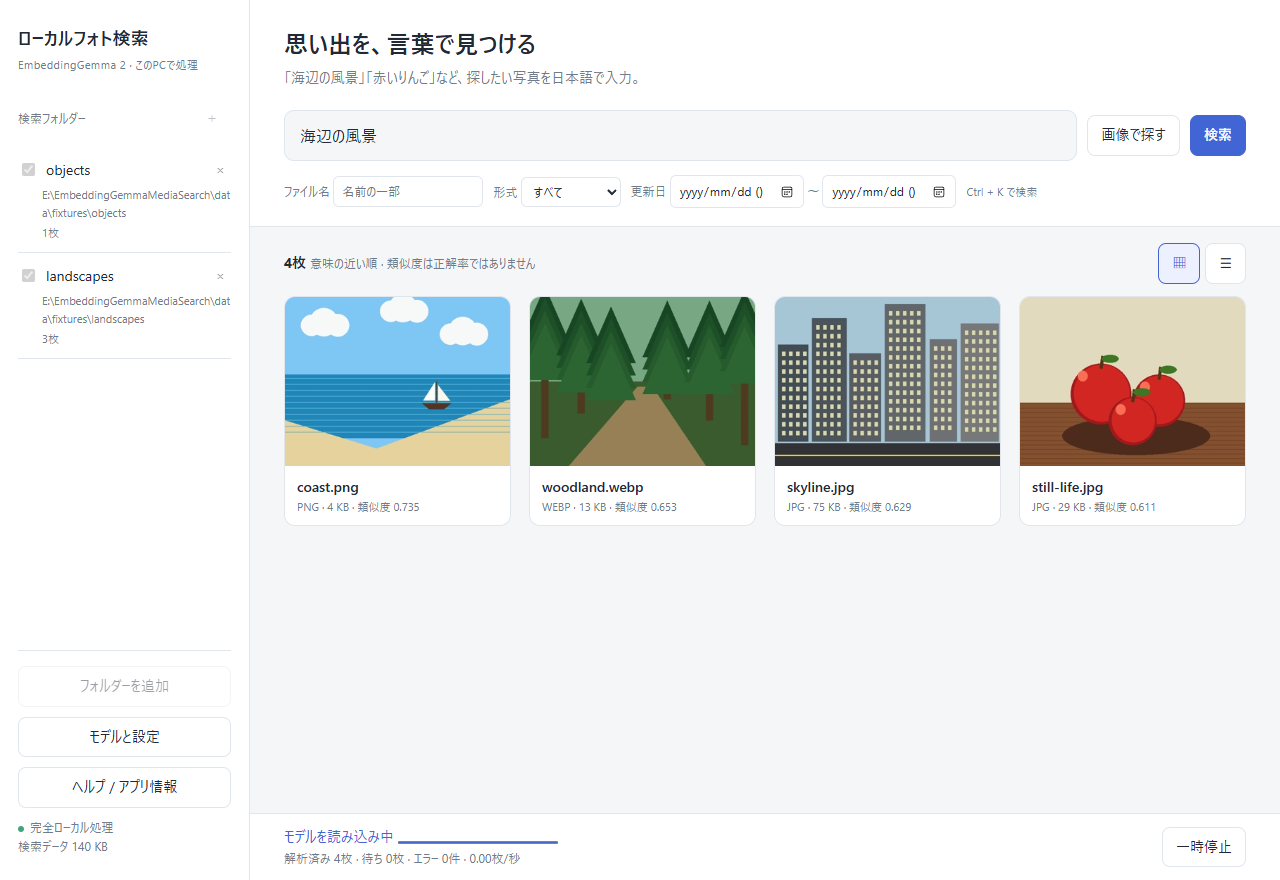
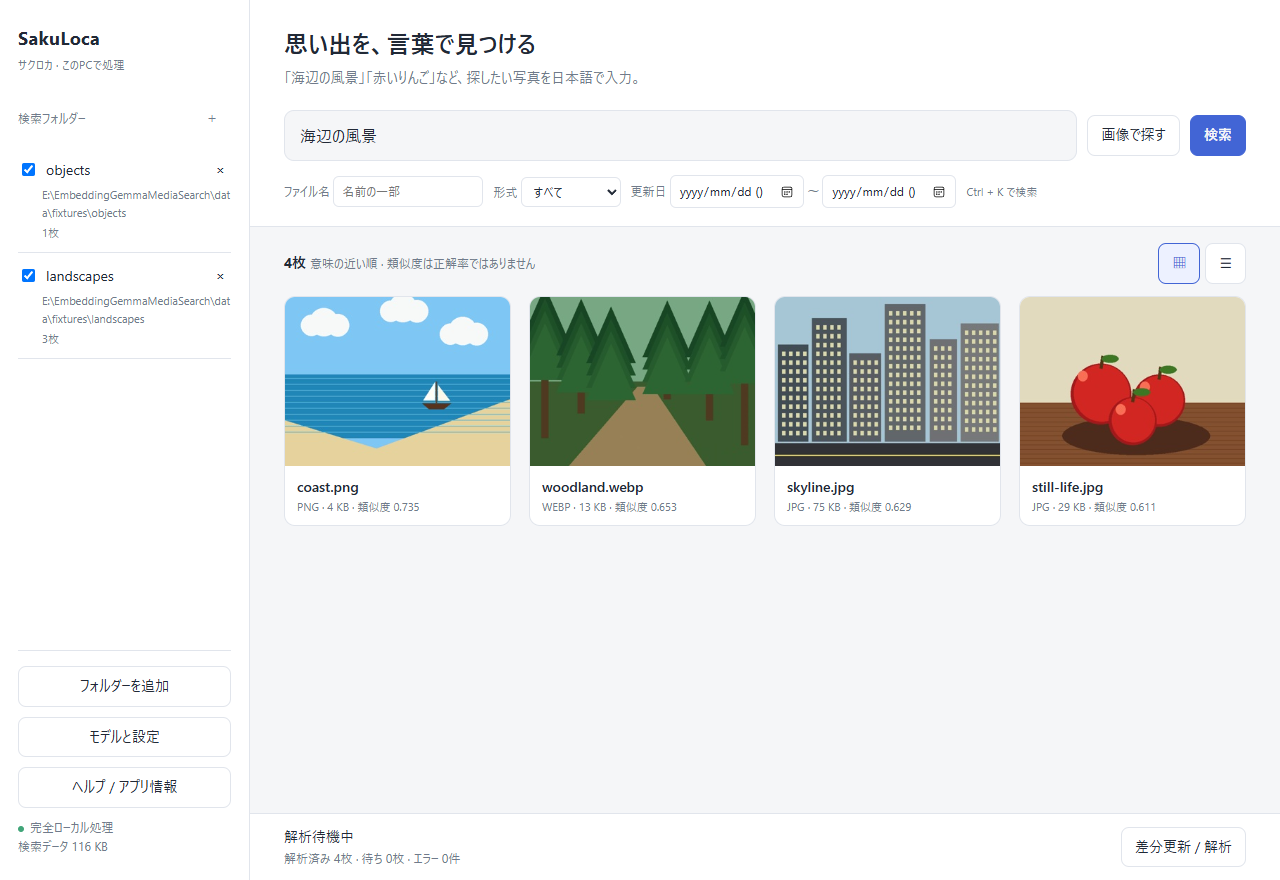
SakuLoca v1.0.1へ改名し配布物と基本検証を整備

diff --git a/src/release-controls.ts b/src/release-controls.ts
@@ -42,7 +42,7 @@ export class ReleaseControls extends LitElement {
   private storage(){const s=this.status;return html`<div class="setting"><label>保存場所と容量</label><p class="path">${s?.data_path}</p><dl class="capacity"><dt>モデル本体</dt><dd>${bytes(s?.model_bytes||0)}</dd><dt>SQLite（検索ベクトル含む）</dt><dd>${bytes(s?.database_bytes||0)}</dd><dt>サムネイル（上限512 MiB）</dt><dd>${bytes(s?.cache_bytes||0)}</dd><dt>AIキャッシュ（上限1 GiB）</dt><dd>${bytes(s?.runtime_cache_bytes||0)}</dd><dt>保存先の空き容量</dt><dd>${bytes(s?.free_bytes||0)}</dd></dl><button ?disabled=${s?.running||this.working} @click=${this.changeStorage}>保存先を変更（元を残してコピー）</button><p class="note">検証後に切り替えて終了します。次回起動で新しい保存先を使います。元データは残ります。</p><button ?disabled=${s?.running||this.working} @click=${()=>this.run(async()=>{if(confirm('AIキャッシュだけを削除します。次のモデル読み込みに時間がかかります。検索データとモデルは保持します。続行しますか？'))await rpc('clear_runtime_cache')})}>AIキャッシュを削除</button><p class="note">写真と検索ベクトルは削除しません。次のAI起動時に再生成します。</p>${s?.runtime_cache_warning?html`<p>${s.runtime_cache_warning}</p>`:nothing}</div>`}
   private environmentControls(){const e=this.environment;return html`<div class="setting"><label>このPCの動作環境</label><p>${e?.os} / ${e?.architecture}</p><p>Windows x64条件：${e?.os_supported?'確認':'未確認'} · 保存先空き ${bytes(e?.free_bytes||0)}</p><p>Worker ${e?.python_bundled?'Python実行環境同梱':'開発環境'} · LiteRT-LM ${e?.runtime['litert-lm-api']||'不足'} / Pillow ${e?.runtime.Pillow||'不足'}</p><p class="note">${e?.gpu_note}<br>${e?.cpu_note}<br>WebView2でこの画面を表示しています。保存先には2 GiB以上の空きを推奨します。</p><button @click=${this.loadEnvironment}>動作環境を再確認</button></div>`}
   private errorDialog(){return html`<dialog id="errors"><div class="dialog-header"><h2>解析エラー ${this.errors.total}件</h2><button @click=${()=>this.close('#errors')}>閉じる</button></div>${this.errors.items.map(e=>html`<div class="setting"><p class="path">${e.path}</p><p>${e.error}</p></div>`)}${!this.errors.total?html`<p>解析エラーはありません。</p>`:nothing}<div class="dialog-actions"><button ?disabled=${!this.errorOffset} @click=${()=>this.showErrors(this.errorOffset-50)}>前へ</button><button ?disabled=${this.errorOffset+50>=this.errors.total} @click=${()=>this.showErrors(this.errorOffset+50)}>次へ</button><button ?disabled=${this.status?.running||!this.errors.total} @click=${()=>this.run(async()=>{await rpc('retry_errors');this.close('#errors')})}>失敗した写真を再試行</button></div></dialog>`}
-  private wizard(){const steps=['ようこそ','PCの動作環境','AIモデルの準備','保存先の確認','写真フォルダー','背景動作と負荷','初回解析','セットアップ完了'];return html`<dialog id="wizard"><div class="dialog-header"><h2>初回セットアップ</h2><button @click=${()=>this.close('#wizard')}>後で続ける</button></div><p class="note">${this.step+1} / 8 · ${steps[this.step]}（途中で閉じても再開できます）</p><progress max="7" value=${this.step}></progress>${this.step===0?html`<h3>写真を、言葉や画像で検索</h3><p>登録した写真だけをこのPCで解析します。外部へアップロードせず、元の写真を書き換えません。</p><p>保存容量を確認しながら準備しましょう。</p>`:this.step===1?this.environmentControls():this.step===2?this.modelControls():this.step===3?this.storage():this.step===4?html`<p>登録したフォルダーとサブフォルダーだけが対象です。</p><button @click=${()=>this.run(async()=>{const path=await choose('folder');if(path)await rpc('add_folder',{path})})}>写真フォルダーを追加</button><p>登録済みフォルダーは検索画面の左側でも確認できます。</p>`:this.step===5?this.background():this.step===6?html`<p>モデルの実行診断後、初回解析を開始できます。解析完了を待たずに検索画面へ進めます。</p><button ?disabled=${this.working||this.status?.running} @click=${this.diagnose}>${this.working?'診断中…':'AI実行を診断'}</button><p>${this.diagnostic}</p><button class="primary" ?disabled=${!this.diagnosticOK||this.status?.running} @click=${()=>this.run(()=>rpc('start'))}>初回解析を開始</button>`:html`<h3>準備ができました</h3><p>画面下部で解析状況を確認できます。ヘルプから使い方を確認できます。</p>`}${this.error?html`<p role="alert">${this.error}</p>`:nothing}<div class="dialog-actions"><button ?disabled=${this.step===0} @click=${()=>this.next(-1)}>戻る</button>${this.step===7?html`<button class="primary" @click=${()=>this.run(async()=>{await rpc('preferences',{setup_complete:true,setup_step:7});this.close('#wizard')})}>検索画面へ</button>`:html`<button class="primary" @click=${()=>this.next(1)}>次へ</button>`}</div></dialog>`}
-  private help(){return html`<dialog id="help"><div class="dialog-header"><h2>使い方 / アプリ情報</h2><button @click=${()=>this.close('#help')}>閉じる</button></div><p><strong>Local Photo Search 1.0.0</strong><br>無料のローカルAI写真検索アプリ。ソースコード非公開で配布します。</p><h3>登録・解析・検索</h3><p>写真フォルダーを追加し「差分更新 / 解析」で準備します。JPEG/PNG/WebPとサブフォルダーが対象。日本語で「海辺の風景」などを検索するか「画像で探す」で参照画像を選択。AIの類似度は正解率ではありません。人物特定や文字の完全一致、撮影場所の断定は保証しません。</p><h3>操作</h3><p>ファイル名・形式・更新日で絞り込み、グリッド/リストを切り替えます。写真をクリックしてプレビュー、拡大縮小、元ファイル起動、Explorer表示。Ctrl+Kで検索、F1でヘルプ、Escで閉じます。意味検索は対象全体を近い順に並べ、1ページ60枚。1,001位以降も表示できます。</p><h3>停止・再開・背景動作</h3><p>一時停止は現在の1枚を保存後に停止。差分更新で未完了だけを再開します。背景実行は既定OFFで×は完全終了。設定で許可すると×はトレイ格納して解析継続。トレイから再表示・停止・再開・完全終了。低負荷とアイドル限定を選べます。自動起動は明示許可したときだけです。</p><h3>モデル・容量・復旧</h3><p>設定で既存.litertlmを選ぶか、公式条件と容量を確認後に取得します。オフラインでは既存モデルを使用。GPU失敗はドライバー確認とCPU診断、Worker停止は設定から再起動。ドライブを再接続し差分更新。壊れた写真や権限問題はエラー一覧で確認し再試行。空き容量不足は容量確保後に再開します。</p><p>モデル/SQLite/サムネイル/AIキャッシュは別です。AIキャッシュ削除は次回起動を遅くしますがモデルと検索ベクトルは保持します。保存先変更はコピーを検証し元を残して、次回起動から反映します。</p><h3>更新・アンインストール</h3><p>トレイから完全終了し、新しいインストーラーを同じ場所へ導入します。Windows設定でアンインストールしても写真・モデル・検索データは残り、再インストールで再利用できます。設定の「アプリの更新」で署名付き更新を確認し、内容を見て更新できます。手動更新も利用できます。Windowsコード署名はありません。</p><h3>プライバシー・動作環境・ライセンス</h3><p>写真・検索文はローカルで処理し、広告/テレメトリーなし。通信は確認したモデル取得、GitHubでの更新確認・取得、WebView2/Visual C++ Runtime導入、利用者が開いた公式ページです。ログはローカルのみですがパスを含む場合があるため共有前に確認してください。</p><p>Windows 11 x64 / RTX 2070を実測。他GPU/Windows10/ARMを検証済みとは表示しません。LiteRT-LMとEmbeddingGemma 2はApache-2.0。TauriはMIT/Apache-2.0、LitはBSD-3-Clause、PythonはPSF、PillowはMIT-CMU/HPNDと組込依存の個別条件。詳細はインストール先のTHIRD_PARTY_NOTICES.md / licenses / USER_GUIDE.md。</p><button @click=${()=>{this.close('#help');void this.openSetup()}}>セットアップを開く</button></dialog>`}
+  private wizard(){const steps=['SakuLocaへようこそ','PCの動作環境','AIモデルの準備','保存先の確認','写真フォルダー','背景動作と負荷','初回解析','セットアップ完了'];return html`<dialog id="wizard"><div class="dialog-header"><h2>初回セットアップ</h2><button @click=${()=>this.close('#wizard')}>後で続ける</button></div><p class="note">${this.step+1} / 8 · ${steps[this.step]}（途中で閉じても再開できます）</p><progress max="7" value=${this.step}></progress>${this.step===0?html`<h3>写真を、言葉や画像で検索</h3><p>登録した写真だけをこのPCで解析します。外部へアップロードせず、元の写真を書き換えません。</p><p>保存容量を確認しながら準備しましょう。</p>`:this.step===1?this.environmentControls():this.step===2?this.modelControls():this.step===3?this.storage():this.step===4?html`<p>登録したフォルダーとサブフォルダーだけが対象です。</p><button @click=${()=>this.run(async()=>{const path=await choose('folder');if(path)await rpc('add_folder',{path})})}>写真フォルダーを追加</button><p>登録済みフォルダーは検索画面の左側でも確認できます。</p>`:this.step===5?this.background():this.step===6?html`<p>モデルの実行診断後、初回解析を開始できます。解析完了を待たずに検索画面へ進めます。</p><button ?disabled=${this.working||this.status?.running} @click=${this.diagnose}>${this.working?'診断中…':'AI実行を診断'}</button><p>${this.diagnostic}</p><button class="primary" ?disabled=${!this.diagnosticOK||this.status?.running} @click=${()=>this.run(()=>rpc('start'))}>初回解析を開始</button>`:html`<h3>準備ができました</h3><p>画面下部で解析状況を確認できます。ヘルプから使い方を確認できます。</p>`}${this.error?html`<p role="alert">${this.error}</p>`:nothing}<div class="dialog-actions"><button ?disabled=${this.step===0} @click=${()=>this.next(-1)}>戻る</button>${this.step===7?html`<button class="primary" @click=${()=>this.run(async()=>{await rpc('preferences',{setup_complete:true,setup_step:7});this.close('#wizard')})}>検索画面へ</button>`:html`<button class="primary" @click=${()=>this.next(1)}>次へ</button>`}</div></dialog>`}
+  private help(){return html`<dialog id="help"><div class="dialog-header"><h2>使い方 / アプリ情報</h2><button @click=${()=>this.close('#help')}>閉じる</button></div><p><strong>SakuLoca 1.0.1（サクロカ）</strong><br>無料・オープンソースのローカルAI写真検索アプリ。開発元：VIDEdegi（ビデデジ）。名前の由来：サクッと、ローカル、サーチ。</p><h3>登録・解析・検索</h3><p>写真フォルダーを追加し「差分更新 / 解析」で準備します。JPEG/PNG/WebPとサブフォルダーが対象。日本語で「海辺の風景」などを検索するか「画像で探す」で参照画像を選択。AIの類似度は正解率ではありません。人物特定や文字の完全一致、撮影場所の断定は保証しません。</p><h3>操作</h3><p>ファイル名・形式・更新日で絞り込み、グリッド/リストを切り替えます。写真をクリックしてプレビュー、拡大縮小、元ファイル起動、Explorer表示。Ctrl+Kで検索、F1でヘルプ、Escで閉じます。意味検索は対象全体を近い順に並べ、1ページ60枚。1,001位以降も表示できます。</p><h3>停止・再開・背景動作</h3><p>一時停止は現在の1枚を保存後に停止。差分更新で未完了だけを再開します。背景実行は既定OFFで×は完全終了。設定で許可すると×はトレイ格納して解析継続。トレイから再表示・停止・再開・完全終了。低負荷とアイドル限定を選べます。自動起動は明示許可したときだけです。</p><h3>モデル・容量・復旧</h3><p>設定で既存.litertlmを選ぶか、公式条件と容量を確認後に取得します。オフラインでは既存モデルを使用。GPU失敗はドライバー確認とCPU診断、Worker停止は設定から再起動。ドライブを再接続し差分更新。壊れた写真や権限問題はエラー一覧で確認し再試行。空き容量不足は容量確保後に再開します。</p><p>モデル/SQLite/サムネイル/AIキャッシュは別です。AIキャッシュ削除は次回起動を遅くしますがモデルと検索ベクトルは保持します。保存先変更はコピーを検証し元を残して、次回起動から反映します。</p><h3>更新・アンインストール</h3><p>トレイから完全終了し、新しいインストーラーを同じ場所へ導入します。Windows設定でアンインストールしても写真・モデル・検索データは残り、再インストールで再利用できます。設定の「アプリの更新」で署名付き更新を確認し、内容を見て更新できます。手動更新も利用できます。Windowsコード署名はありません。</p><h3>プライバシー・動作環境・ライセンス</h3><p>写真・検索文はローカルで処理し、広告/テレメトリーなし。通信は確認したモデル取得、GitHubでの更新確認・取得、WebView2/Visual C++ Runtime導入、利用者が開いた公式ページです。ログはローカルのみですがパスを含む場合があるため共有前に確認してください。</p><p>Windows 11 x64 / RTX 2070を実測。他GPU/Windows10/ARMを検証済みとは表示しません。LiteRT-LMとEmbeddingGemma 2はApache-2.0。TauriはMIT/Apache-2.0、LitはBSD-3-Clause、PythonはPSF、PillowはMIT-CMU/HPNDと組込依存の個別条件。詳細はインストール先のTHIRD_PARTY_NOTICES.md / licenses / USER_GUIDE.md。</p><button @click=${()=>{this.close('#help');void this.openSetup()}}>セットアップを開く</button></dialog>`}
   render(){if(this.mode==='assistant')return html`${this.wizard()}${this.help()}`;return html`${this.error?html`<p role="alert">${this.error}</p>`:nothing}<nav class="setting-tabs" aria-label="設定カテゴリ">${[['model','モデル'],['background','解析と背景'],['storage','保存容量'],['environment','動作環境'],['errors','エラーと復旧']].map(([key,label])=>html`<button class=${this.section===key?'active':''} aria-pressed=${this.section===key} @click=${()=>this.section=key}>${label}</button>`)}</nav>${this.section==='model'?this.modelControls():this.section==='background'?this.background():this.section==='storage'?this.storage():this.section==='environment'?this.environmentControls():html`<div class="setting"><label>エラーと復旧</label><button @click=${()=>this.showErrors()}>解析エラー一覧</button> <button @click=${()=>this.run(()=>desktop('log'))}>技術ログを開く</button> <button @click=${()=>this.run(async()=>{if(confirm('Workerを再起動します。実行中の解析は中断し、保存済み検索データを保持します。続行しますか？'))await desktop('restart_worker')})}>Workerを再起動</button></div>`}<div class="row"><button ?disabled=${!this.status?.preferences.background} @click=${()=>this.run(()=>desktop('hide'))}>トレイへ格納</button><button @click=${()=>this.run(()=>desktop('quit'))}>完全終了</button></div>${this.errorDialog()}`}
 }

diff --git a/src/app.ts b/src/app.ts
@@ -69,7 +69,7 @@ class App extends LitElement {
   private phase(){const phases:Record<string,string>={waiting_idle:'PCの操作が止まるのを待機中',idle:'解析待機中',loading:'モデルを読み込み中',scanning:'追加・変更を確認中',indexing:'写真を解析中',pausing:'現在の写真を保存して停止中',paused:'解析を一時停止',error:'解析でエラーが発生'};return phases[this.status?.progress.phase||'idle']}
   render(){const s=this.status;const start=this.results.offset;const total=this.results.total;const done=s?.jobs.done||0;const pending=(s?.jobs.pending||0)+(s?.jobs.processing||0);return html`
 <div class="layout">
-<aside><div class="brand">ローカルフォト検索<small>EmbeddingGemma 2 · このPCで処理</small></div>
+<aside><div class="brand">SakuLoca<small>サクロカ · このPCで処理</small></div>
 <div class="side-label">検索フォルダー <button class="quiet" @click=${this.addFolder} ?disabled=${s?.running} aria-label="フォルダーを追加">＋</button></div>
 <div class="folders">${this.folders.map(f=>html`<div class="folder"><div class="folder-line"><input type="checkbox" aria-label=${`${f.path} を検索対象にする`} .checked=${!!f.enabled} ?disabled=${s?.running} @change=${()=>this.folderAction(f,'enable')}><span class="folder-name" title=${f.path}>${basename(f.path)}</span><button class="quiet" title="検索対象から削除" ?disabled=${s?.running} @click=${()=>this.folderAction(f,'remove')}>×</button></div><div class="folder-path">${f.path}</div><div class="folder-state">${f.count}枚${f.status==='offline'?' · 未接続':f.status==='partial'?' · 一部アクセス不可':''}</div>${f.error?html`<div class="folder-state">${f.error}</div>`:nothing}</div>`)}${!this.folders.length?html`<p class="note">写真のあるフォルダーを登録すると、ここに表示されます。</p>`:nothing}</div>
 <div class="side-bottom"><button @click=${this.addFolder} ?disabled=${s?.running}>フォルダーを追加</button><button @click=${this.settings}>モデルと設定</button><button @click=${this.help}>ヘルプ / アプリ情報</button><div class="note"><span class="status-dot"></span>完全ローカル処理<br>検索データ ${bytes((s?.database_bytes||0)+(s?.cache_bytes||0)+(s?.runtime_cache_bytes||0))}</div></div></aside>

diff --git a/src/update-controls.ts b/src/update-controls.ts
@@ -40,5 +40,5 @@ export class UpdateControls extends LitElement {
   private async toggle(value:boolean){
     try{this.automatic=(await invoke<{automatic:boolean}>('update_preferences',{automatic:value})).automatic}catch(e){this.message=String(e)}
   }
-  render(){return html`<strong>アプリの更新</strong><p><label><input type="checkbox" .checked=${this.automatic} ?disabled=${this.busy} @change=${(e:Event)=>this.toggle((e.target as HTMLInputElement).checked)}>起動時に更新を確認（ダウンロード・導入は確認後）</label></p><button ?disabled=${this.busy} @click=${()=>this.check()}>更新を確認</button>${this.version?html`<button ?disabled=${this.busy} @click=${this.install}>${this.version} に更新</button><pre>${this.notes}</pre>`:''}<p role="status">${this.message}</p>${this.total?html`<progress max=${this.total} value=${this.received}></progress>`:''}<p>更新確認ではGitHubへ接続します。写真・検索語は送信しません。失敗時はGitHub ReleasesのWindowsセットアップを取得し、トレイから完全終了して手動更新してください。</p><a href="https://github.com/VIDEdegi/local-photo-search/releases" @click=${(e:Event)=>{e.preventDefault();void invoke('open_reference',{kind:'releases'})}}>GitHub Releases</a>`}
+  render(){return html`<strong>アプリの更新</strong><p><label><input type="checkbox" .checked=${this.automatic} ?disabled=${this.busy} @change=${(e:Event)=>this.toggle((e.target as HTMLInputElement).checked)}>起動時に更新を確認（ダウンロード・導入は確認後）</label></p><button ?disabled=${this.busy} @click=${()=>this.check()}>更新を確認</button>${this.version?html`<button ?disabled=${this.busy} @click=${this.install}>${this.version} に更新</button><pre>${this.notes}</pre>`:''}<p role="status">${this.message}</p>${this.total?html`<progress max=${this.total} value=${this.received}></progress>`:''}<p>更新確認ではGitHubへ接続します。写真・検索語は送信しません。失敗時はGitHub ReleasesのWindowsセットアップを取得し、トレイから完全終了して手動更新してください。</p><a href="https://github.com/VIDEdegi/sakuloca/releases" @click=${(e:Event)=>{e.preventDefault();void invoke('open_reference',{kind:'releases'})}}>GitHub Releases</a>`}
 }

diff --git a/index.html b/index.html
@@ -1,2 +1,2 @@
 <!doctype html>
-<html lang="ja"><head><meta charset="UTF-8"><meta name="viewport" content="width=device-width, initial-scale=1.0"><title>ローカルフォト検索</title><style>html,body{margin:0;height:100%;overflow:hidden}</style></head><body><media-search-app></media-search-app><script type="module" src="/src/app.ts"></script></body></html>
+<html lang="ja"><head><meta charset="UTF-8"><meta name="viewport" content="width=device-width, initial-scale=1.0"><title>SakuLoca（サクロカ）</title><link rel="icon" href="/src-tauri/icons/icon.png"><style>html,body{margin:0;height:100%;overflow:hidden}</style></head><body><media-search-app></media-search-app><script type="module" src="/src/app.ts"></script></body></html>

diff --git a/scripts/test-v1-smoke.py b/scripts/test-v1-smoke.py
@@ -1,11 +1,13 @@
 """Stable release: existing isolated index, installed app, one Japanese query."""
-import hashlib, json, os, socket, sqlite3, subprocess, time, urllib.request
+import base64, hashlib, json, os, socket, sqlite3, subprocess, time, urllib.request
 from contextlib import closing
 from pathlib import Path
 
 root = Path(__file__).resolve().parents[1]
-data = root / 'data/release-tests/rc-audit/ui-runtime'
-exe = root / 'data/release-tests/installed-qa/embeddinggemma-media-search.exe'
+config = json.loads((root / 'src-tauri/tauri.conf.json').read_text(encoding='utf-8'))
+data = Path(os.environ.get('MEDIA_SEARCH_TEST_DATA', str(root / 'data/release-tests/rc-audit/ui-runtime')))
+exe = Path(os.environ.get('MEDIA_SEARCH_TEST_EXE', str(root / 'data/release-tests/installed-qa' / (config.get('mainBinaryName', 'embeddinggemma-media-search') + '.exe'))))
+assert data.resolve().is_relative_to((root / 'data/release-tests').resolve()), 'Isolated data only'
 
 def vectors():
     with closing(sqlite3.connect((data / 'index.sqlite3').as_uri() + '?mode=ro', uri=True)) as db:
@@ -62,13 +64,21 @@ try:
     wait(lambda: js("return document.querySelector('media-search-app').shadowRoot.querySelector('.card-name')?.textContent==='coast.png'"))
     js("document.querySelector('media-search-app').shadowRoot.querySelector('release-controls[mode=assistant]').openHelp()")
     help_text = wait(lambda: js("return document.querySelector('media-search-app').shadowRoot.querySelector('release-controls[mode=assistant]').shadowRoot.querySelector('#help')?.textContent"))
-    assert 'Local Photo Search 1.0.0' in help_text and '1.0.0-dev' not in help_text
-    report = dict(version='1.0.0', installed_app=True, webview2=True, packaged_worker=True,
+    assert f"{config['productName']} {config['version']}" in help_text
+    assert js('return document.title') == config['app']['windows'][0]['title']
+    preferences = request('POST', base + '/execute/async', {'script': "const done=arguments[arguments.length-1];window.__TAURI_INTERNALS__.invoke('update_preferences',{automatic:false}).then(result=>done({result})).catch(e=>done({error:String(e)}));", 'args': []})
+    assert 'error' not in preferences and preferences['result']['automatic'] is False
+    js("document.querySelector('media-search-app').shadowRoot.querySelector('release-controls[mode=assistant]').close('#help')")
+    (root / 'docs/images/search.png').write_bytes(base64.b64decode(request('GET', base + '/screenshot')))
+    report = dict(version=config['version'], product=config['productName'], installed_app=True, webview2=True, packaged_worker=True,
+                  window_title=True, update_preferences_saved=True,
                   japanese_search_ui='海辺の風景 -> coast.png', stable_about=True,
                   reindex_called=False, vectors_sha256=before, vectors_unchanged=vectors() == before,
                   clean_windows_test=False)
     assert report['vectors_unchanged']
-    (root / 'data/release-tests/v1-smoke.json').write_text(json.dumps(report, ensure_ascii=False, indent=2), encoding='utf-8')
+    report_path = Path(os.environ.get('MEDIA_SEARCH_TEST_REPORT', str(root / f"data/release-tests/{config['productName'].replace(' ', '-')}-{config['version']}-smoke.json")))
+    assert report_path.resolve().is_relative_to((root / 'data/release-tests').resolve())
+    report_path.write_text(json.dumps(report, ensure_ascii=False, indent=2), encoding='utf-8')
     print(json.dumps(report, ensure_ascii=False, indent=2), flush=True)
 finally:
     if base:

diff --git a/src-tauri/src/main.rs b/src-tauri/src/main.rs
@@ -342,7 +342,7 @@ async fn desktop_preferences(
                 "add",
                 "HKCU\\Software\\Microsoft\\Windows\\CurrentVersion\\Run",
                 "/v",
-                "LocalPhotoSearch",
+                "SakuLoca",
                 "/t",
                 "REG_SZ",
                 "/d",
@@ -363,7 +363,7 @@ async fn desktop_preferences(
                 "delete",
                 "HKCU\\Software\\Microsoft\\Windows\\CurrentVersion\\Run",
                 "/v",
-                "LocalPhotoSearch",
+                "SakuLoca",
                 "/f",
             ]);
         }
@@ -435,7 +435,7 @@ fn open_reference(kind: String) -> Result<(), String> {
     let url = match kind.as_str() {
         "model" => "https://huggingface.co/litert-community/embeddinggemma-2-740m-litert-lm",
         "license" => "https://huggingface.co/google/embeddinggemma-2",
-        "releases" => "https://github.com/VIDEdegi/local-photo-search/releases",
+        "releases" => "https://github.com/VIDEdegi/sakuloca/releases",
         "webview" => "https://developer.microsoft.com/microsoft-edge/webview2/",
         _ => return Err("許可されていないリンクです".into()),
     };
@@ -476,7 +476,7 @@ fn main() {
         Ok(data) => data,
         Err(error) => {
             rfd::MessageDialog::new()
-                .set_title("ローカルフォト検索を起動できません")
+                .set_title("SakuLocaを起動できません")
                 .set_description(error)
                 .set_level(rfd::MessageLevel::Error)
                 .show();
@@ -537,7 +537,7 @@ fn main() {
             let menu = Menu::with_items(app, &[&show, &pause, &resume, &quit])?;
             TrayIconBuilder::with_id("main-tray")
                 .icon(app.default_window_icon().unwrap().clone())
-                .tooltip("ローカルフォト検索 · 待機中")
+                .tooltip("SakuLoca · 待機中")
                 .menu(&menu)
                 .show_menu_on_left_click(false)
                 .on_menu_event(|app, event| match event.id.as_ref() {
@@ -619,7 +619,7 @@ fn main() {
                         "AI処理中 · GPU/CPUを使用しています"
                     };
                     if let Some(tray) = handle.tray_by_id("main-tray") {
-                        let _ = tray.set_tooltip(Some(format!("ローカルフォト検索 · {state}")));
+                        let _ = tray.set_tooltip(Some(format!("SakuLoca · {state}")));
                     }
                 }
             });
@@ -642,7 +642,7 @@ fn main() {
         Ok(app) => app,
         Err(error) => {
             rfd::MessageDialog::new()
-                .set_title("ローカルフォト検索を起動できません")
+                .set_title("SakuLocaを起動できません")
                 .set_description(error.to_string())
                 .set_level(rfd::MessageLevel::Error)
                 .show();

diff --git a/scripts/prepare-release.py b/scripts/prepare-release.py
@@ -2,20 +2,24 @@
 import hashlib,json,shutil
 from pathlib import Path
 root=Path(__file__).resolve().parents[1]
-version=json.loads((root/'package.json').read_text(encoding='utf-8'))['version']
+config=json.loads((root/'src-tauri/tauri.conf.json').read_text(encoding='utf-8'))
+version=config['version']
+product=config['productName']
+notes=root/'src-tauri'/next(p for p,dest in config['bundle']['resources'].items() if dest=='RELEASE_NOTES.md')
 assert '-' not in version,'Only stable versions belong in this release package'
-installer=root/'target/release/bundle/nsis'/f'Local Photo Search_{version}_x64-setup.exe'
+installer=root/'target/release/bundle/nsis'/f'{product}_{version}_x64-setup.exe'
 signature=installer.with_suffix('.exe.sig')
 asset_name=installer.name.replace(' ','-')
 assert installer.is_file() and signature.is_file(),'Build signed artifacts first'
 out=root/'data/releases'/f'v{version}-public';out.mkdir(parents=True,exist_ok=True)
-for src in [installer,signature,root/'LICENSE',root/'LICENSE_SCOPE.md',root/'THIRD_PARTY_NOTICES.md',root/'docs/RELEASE_NOTES_V1.md',root/'docs/USER_GUIDE.md']:
+for src in [installer,signature,root/'LICENSE',root/'LICENSE_SCOPE.md',root/'THIRD_PARTY_NOTICES.md',notes,root/'docs/USER_GUIDE.md']:
     name=asset_name if src==installer else asset_name+'.sig' if src==signature else src.name
     shutil.copyfile(src,out/name)
 shutil.make_archive(str(out/'licenses'),'zip',root/'licenses')
-manifest={'version':version,'notes':(root/'docs/RELEASE_NOTES_V1.md').read_text(encoding='utf-8'),'platforms':{'windows-x86_64':{'url':f'https://github.com/VIDEdegi/local-photo-search/releases/download/v{version}/'+asset_name,'signature':signature.read_text(encoding='utf-8').strip()}}}
+release_base=config['bundle']['homepage'].rstrip('/')
+manifest={'version':version,'notes':notes.read_text(encoding='utf-8'),'platforms':{'windows-x86_64':{'url':f'{release_base}/releases/download/v{version}/'+asset_name,'signature':signature.read_text(encoding='utf-8').strip()}}}
 (out/'latest.json').write_text(json.dumps(manifest,ensure_ascii=False,indent=2)+'\n',encoding='utf-8')
-names={asset_name,asset_name+'.sig','LICENSE','LICENSE_SCOPE.md','THIRD_PARTY_NOTICES.md','RELEASE_NOTES_V1.md','USER_GUIDE.md','licenses.zip','latest.json'}
+names={asset_name,asset_name+'.sig','LICENSE','LICENSE_SCOPE.md','THIRD_PARTY_NOTICES.md',notes.name,'USER_GUIDE.md','licenses.zip','latest.json'}
 hashes=''.join(hashlib.sha256((out/name).read_bytes()).hexdigest()+'  '+name+'\n' for name in sorted(names))
 (out/'SHA256SUMS').write_text(hashes,encoding='utf-8')
 print(installer.name,installer.stat().st_size,hashlib.sha256(installer.read_bytes()).hexdigest())

diff --git a/scripts/record-release-artifacts.py b/scripts/record-release-artifacts.py
@@ -5,8 +5,8 @@ import pefile
 root=Path(__file__).resolve().parents[1]
 version=json.loads((root/'src-tauri/tauri.conf.json').read_text())['version']
 assert version in ('1.0.0-dev.2','1.0.0'),'Unexpected release version'
-paths=[('installer',root/f'target/release/bundle/nsis/Local Photo Search_{version}_x64-setup.exe'),
-       ('application',root/'target/release/embeddinggemma-media-search.exe'),
+paths=[('installer',root/f'target/release/bundle/nsis/SakuLoca_{version}_x64-setup.exe'),
+       ('application',root/'target/release/SakuLoca.exe'),
        ('worker',root/'dist-worker/media-search-worker/media-search-worker.exe'),
        ('qa_uninstaller_path_dependent',root/'data/release-tests/installed-qa/uninstall.exe'),
        ('official_webview2_bootstrapper',root/'target/.tauri/MicrosoftEdgeWebview2Setup.exe')]
@@ -24,7 +24,7 @@ for kind,path in paths:
     env=dict(os.environ,PSModulePath=str(shell.parent/'Modules'))
     signature=subprocess.check_output([str(shell),'-NoProfile','-Command',f"$ErrorActionPreference='Stop';$s=Get-AuthenticodeSignature -LiteralPath '{escaped}';@{{status=$s.Status.ToString();publisher=$s.SignerCertificate.Subject}}|ConvertTo-Json -Compress"],text=True,env=env)
     records.append({'kind':kind,'path':path.relative_to(root).as_posix(),'bytes':path.stat().st_size,'sha256':hashlib.sha256(path.read_bytes()).hexdigest(),'pe_version':version_info,'authenticode':json.loads(signature)})
-report={'version':version,'recorded_at_utc':datetime.datetime.now(datetime.timezone.utc).isoformat(),'source_commit':subprocess.check_output(['git','rev-parse','HEAD'],text=True,cwd=root).strip(),'public_release':False,'application_license_selected':version=='1.0.0','application_distribution':'freeware, source-private' if version=='1.0.0' else 'development preview','files':records}
+report={'version':version,'recorded_at_utc':datetime.datetime.now(datetime.timezone.utc).isoformat(),'source_commit':subprocess.check_output(['git','rev-parse','HEAD'],text=True,cwd=root).strip(),'public_release':False,'application_license_selected':True,'application_distribution':'free and open-source (Apache-2.0)','files':records}
 out=root/'data/release-tests/rc-audit'
 (out/'artifacts.json').write_text(json.dumps(report,ensure_ascii=False,indent=2),encoding='utf-8')
 (out/'SHA256SUMS.txt').write_text('\n'.join(f"{r['sha256']}  {r['path']}" for r in records)+'\n',encoding='utf-8')

diff --git a/docs/RELEASE_NOTES_V1_0_1.md b/docs/RELEASE_NOTES_V1_0_1.md
@@ -1,0 +1,25 @@
+# SakuLoca v1.0.1
+
+Local Photo Searchを **SakuLoca（サクロカ）** に改名しました。名前の由来は「サクッと、ローカル、サーチ。」開発元は **VIDEdegi（ビデデジ）** です。
+
+Windowsのアプリ名、実行ファイル・インストーラー、スタートメニュー、ウィンドウ、トレイ、自動起動、アイコン、ヘルプを新名称に統一しました。新しい配布先は [VIDEdegi/sakuloca](https://github.com/VIDEdegi/sakuloca) です。
+
+写真検索のAIエンジン・SQLiteスキーマ・解析結果は変更していません。写真・モデル・検索データを削除せず、既存の更新署名鍵を継続使用します。内部識別子と `%LOCALAPPDATA%/LocalPhotoSearch/` の保存先は互換性のため維持します。新旧のインストールが共存する場合があります。旧版からの完全自動移行は提供しません。
+
+<small>旧名称『Local Photo Search』v1.0.0をご利用中の方は、SakuLocaへの移行についてGitHub Issuesからお問い合わせください。</small>
+
+問い合わせ先：[GitHub Issues](https://github.com/VIDEdegi/sakuloca/issues)
+
+## インストールと更新
+
+[GitHub Releases](https://github.com/VIDEdegi/sakuloca/releases) の `SakuLoca_1.0.1_x64-setup.exe` を取得してください。「Source code」は開発者向けです。AIモデルは別途指定・取得します。Python・Rust・Node.jsの開発環境は不要です。
+
+SakuLocaは設定から署名付き更新を確認し、内容を確認して導入できます。起動時チェックは設定でOFFにできます。更新前にWorkerを安全に停止します。取得失敗時はトレイから完全終了し、新しいインストーラーで手動更新してください。
+
+## 対応環境・制限
+
+Windows 11 64bit、GPU確認済みはRTX 2070（8GB）。他GPUは未検証。CPUは4スレッド・少数人工画像で確認済みですが、大量写真の実用速度は未評価です。Windows 10・ARM・32bitは初期サポート対象外です。
+
+実行ファイル・インストーラーはWindowsコード未署名のため、SmartScreen警告が出る場合があります。Updaterの更新署名とは別です。クリーンWindows・OSのスリープ／再起動の受入確認は残っています。
+
+無料・オープンソース（独自コードはApache-2.0）。第三者部分とAIモデルは元の条件を維持します。通知は `THIRD_PARTY_NOTICES.md` と `licenses/`。写真・検索語のクラウド送信やアプリ独自テレメトリーはありません。

diff --git a/docs/SAKULOCA_V1_0_1_VALIDATION.md b/docs/SAKULOCA_V1_0_1_VALIDATION.md
@@ -1,0 +1,24 @@
+# SakuLoca v1.0.1 改名・基本確認
+
+2026-10-11。Local Photo Search v1.0.0をSakuLoca（サクロカ）へ改名。開発元VIDEdegi（ビデデジ）。AIエンジン・Worker・SQLiteスキーマ・依存バージョンは変更していません。
+
+## 確認結果
+
+- TypeScript型チェック、Vite、Rust/Tauri、NSIS、既存鍵による更新署名の生成に成功。
+- 正式インストーラーをE:の専用QA先へ新規導入。Windows登録はSakuLoca / VIDEdegi / 1.0.1、実行ファイルはSakuLoca.exe。
+- 実アプリ/WebView2/同梱Workerの起動、日本語「海辺の風景→coast.png」、新名称のヘルプ・タイトル、更新確認設定の保存を確認。
[1 lines of base64/hex data omitted]
+- Workerの50ファイルは以前の記録と一致。アプリ識別子・データ保存先・公開鍵は維持。
+- 生成したインストーラー本体とtrusted commentの署名を既存公開鍵で検証。latest.jsonのバージョン・署名・新URLと整合。
+- 旧UpdaterのGitHub URLはHTTP 200。改名後のリダイレクト確認と新URLの実配信確認は、承認後の公開時に行う。
+- 新規試験で作成したアプリ登録は、専用QA先を確認してアンインストール済み。実ユーザーデータは使用・削除していない。
+
+## 配布物
+
+`SakuLoca_1.0.1_x64-setup.exe`：35,280,884 bytes（約33.65MiB）。
+
[1 lines of base64/hex data omitted]
+
+`data/releases/v1.0.1-public/` にインストーラー、署名、latest.json、SHA256SUMS、リリースノート、ガイド、既存ライセンス通知を用意。公開は所有者の最終承認後。
+
+旧名称版の完全自動移行、クリーンWindows、長時間負荷、OSスリープ/再起動、他GPUは今回検証していません。未署名Windowsアプリの警告は従来どおりです。旧版利用者への問い合わせ案内はリリースノートに掲載しました。

diff --git a/docs/RELEASE_PROCESS.md b/docs/RELEASE_PROCESS.md
@@ -2,13 +2,13 @@
 
 ## GitHubの初回設定
 
-`VIDEdegi/local-photo-search` をまずPrivateで作成します。元の開発履歴は個人用メールを含むため公開せず、検査済みの公開用履歴だけをPushします。
+公開済みの `VIDEdegi/local-photo-search` を、所有者承認後に `VIDEdegi/sakuloca` へ改名します。別リポジトリを新規作成せず、既存Release・Git履歴を保持します。元の開発履歴は個人用メールを含むため公開せず、検査済みの公開用履歴だけをPushします。
 
 - Issues ON、Discussions/Wiki/Projects/自動マージ OFF。
 - Description: Windows向けの無料ローカルAI写真検索アプリ。
 - Topics: windows, tauri, photo-search, local-ai, embeddinggemma。
 - Homepage: https://videdegi.com （紹介ページ自体は別途準備）。
-- mainのRuleset: force push/削除禁止、PR経由、必要チェック `basic`。レビュー必須数は0。管理者の通常PRマージを許可し、緊急時用の管理者バイパスを設定。
+- mainのRuleset: force push/削除禁止、PR経由、必要チェック `basic`。レビュー必須数は0。管理者もPR経由でマージします（必須レビュー0、バイパスなし）。
 - Actionsは読み取り専用。Fork PRのSecrets/書き込み権限は許可しない。
 - Dependabot alerts、Secret scanning/Push protection、Private vulnerability reportingを利用できる範囲でON。Dependabotの定期PR設定はまだ追加しない。
 - CIが初回実行された後に必須チェックを設定。Privateで使えない保護はPublic化直後に適用。
